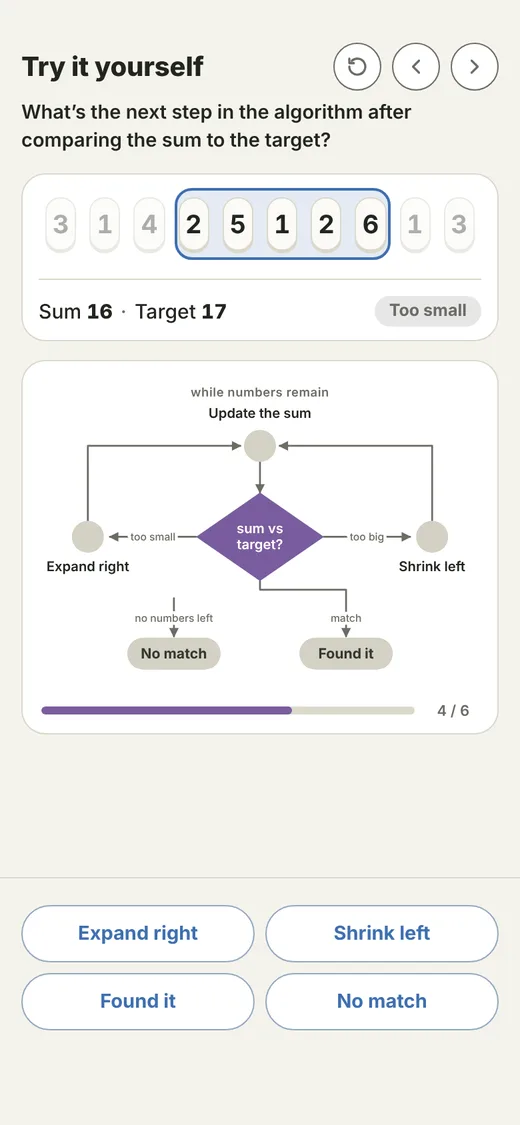
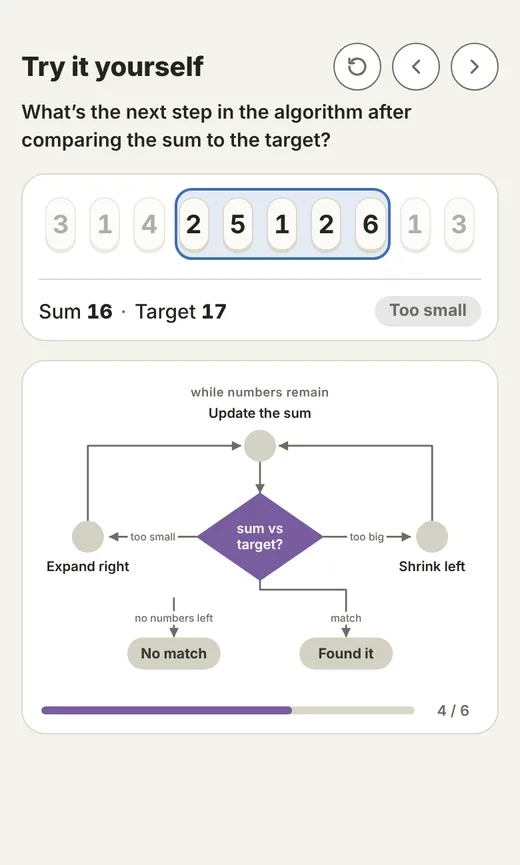
Lesson cards: matching preview sizes, open arrow beside the title
Claude-Session: https://claude.ai/code/session_01B6u6w9fTGNxU2tRw6eReYt

diff --git a/app/page.tsx b/app/page.tsx
@@ -8,9 +8,9 @@ const lessons = [
   {
     href: "/sliding-window",
     preview: "/sliding-window-preview.webp",
-    alt: "Sliding window lesson on a phone: the Try it yourself question, with a five-number window highlighted and four choices to pick from",
+    alt: "Sliding window lesson on a phone: the Try it yourself question, with a five-number window highlighted above a flowchart of the algorithm",
     title: "Sliding window",
-    height: 1125,
+    height: 865,
   },
   {
     href: "/basis-vectors",
@@ -142,11 +142,15 @@ export default function Home() {
         <div className="grid gap-8 md:grid-cols-2 md:justify-items-center">
         {lessons.map((l) => (
           <Link key={l.href} href={l.href} className="lesson-card group mx-auto flex w-full max-w-[340px] flex-col p-4">
-            <h3 className="px-1 md:min-h-[3.45rem] text-[22px] font-extrabold leading-tight tracking-tight">{l.title}</h3>
+            <div className="flex items-start justify-between gap-3 px-1">
+              <h3 className="text-xl font-extrabold leading-tight tracking-tight md:min-h-[3.1rem]">{l.title}</h3>
+              <span className="work-cta grid h-9 w-9 shrink-0 place-items-center rounded-full text-base font-bold" aria-hidden>
+                &rarr;
+              </span>
+            </div>
             <div className="phone mt-3.5 w-full">
               <Image src={l.preview} alt={l.alt} width={520} height={l.height} className="h-auto w-full" />
             </div>
-            <span className="work-cta mt-4 self-start rounded-2xl px-4 py-2.5 text-sm font-bold">Open &rarr;</span>
           </Link>
         ))}
         </div>
